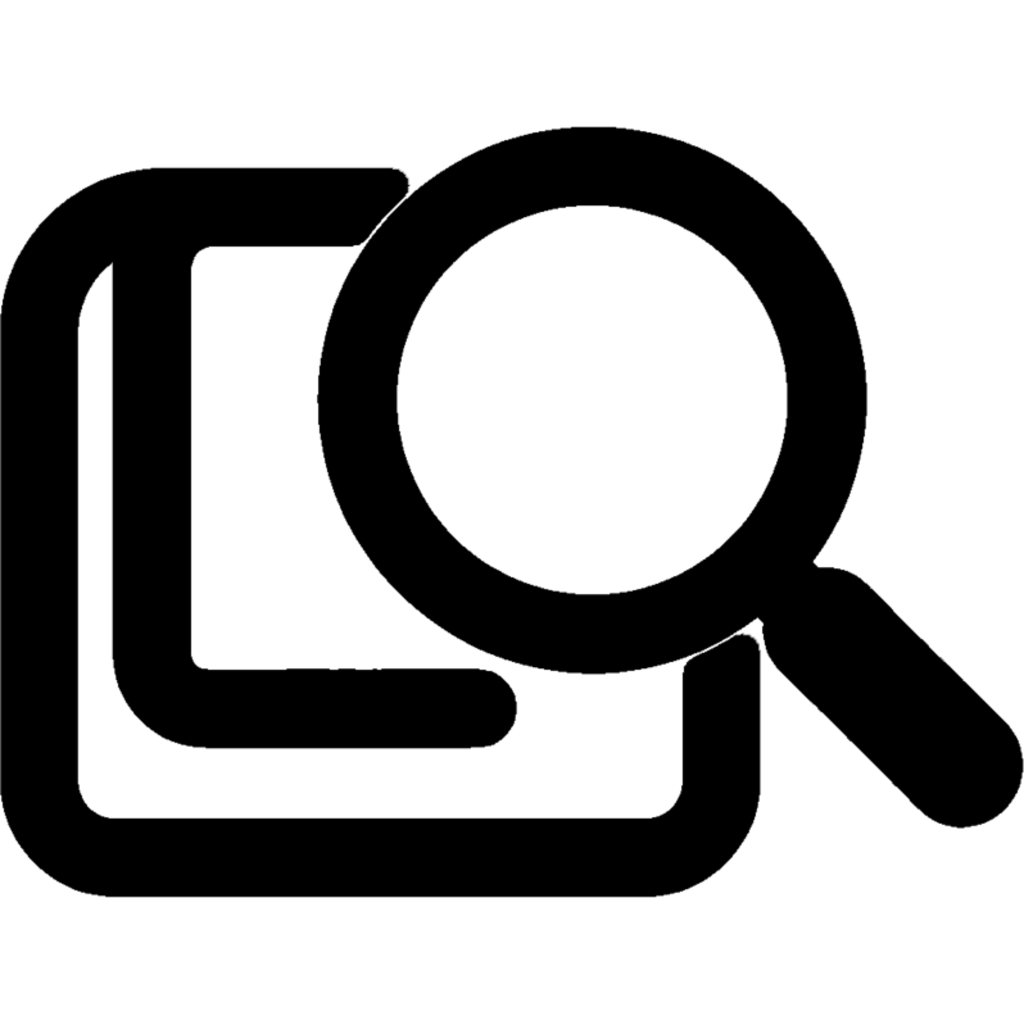
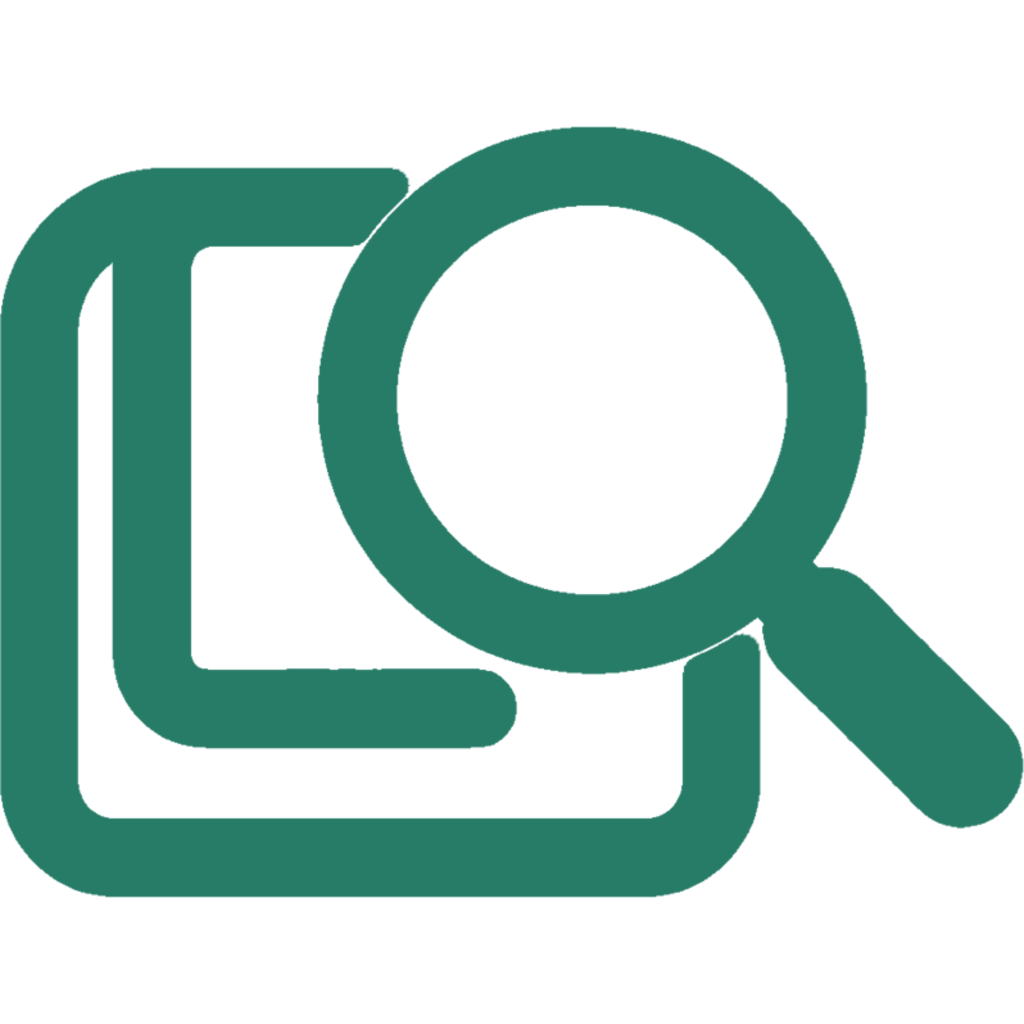
Update app branding from orange to green

diff --git a/Sources/TypingLens/UI/TypingLensTheme.swift b/Sources/TypingLens/UI/TypingLensTheme.swift
@@ -16,8 +16,8 @@ enum TypingLensTheme {
     static let background = Color(hex: 0x323437)
     static let panel = Color(hex: 0x2C2E31)
     static let panelElevated = Color(hex: 0x3A3D41)
-    static let primary = Color(hex: 0xFF8A3D)
-    static let accent = Color(hex: 0xFF8A3D)
+    static let primary = Color(hex: 0x277C68)
+    static let accent = Color(hex: 0x277C68)
     static let titleStyle = LinearGradient(
         colors: [accent, accent],
         startPoint: .top,

diff --git a/README.md b/README.md
@@ -1,5 +1,5 @@
 <p align="center">
-  <img src="https://raw.githubusercontent.com/nathankoerschner/TypingLens/main/docs/banner.png?v=2" alt="TypingLens" width="800">
+  <img src="https://raw.githubusercontent.com/nathankoerschner/TypingLens/main/docs/banner.png?v=3" alt="TypingLens" width="800">
 </p>
 
 <p align="center">
